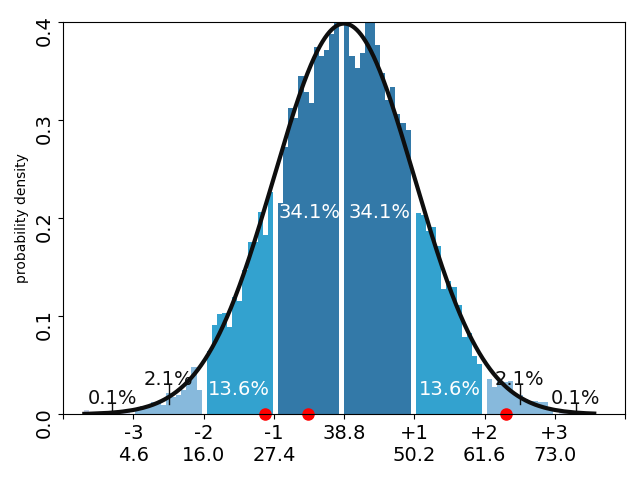
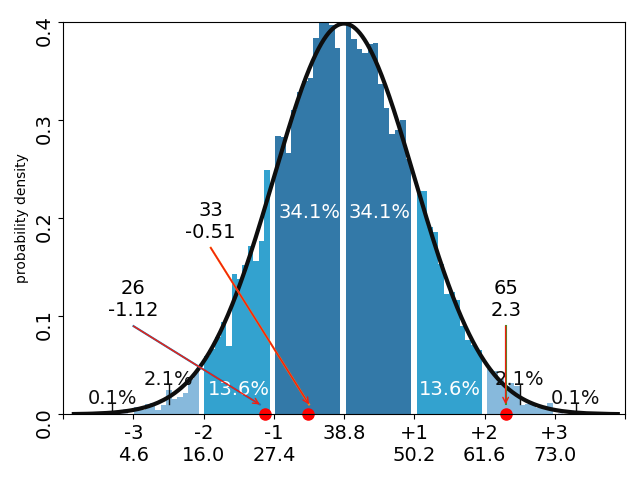
z-scores plot

diff --git a/graphic/plot.py b/graphic/plot.py
@@ -326,7 +326,7 @@ class Plot(DoStats):
                 return '    {0}+'.format(tick_val)
             else:
                 return tick_val
-    def plotStdND(self,x_format_fn=None,func=None):
+    def plotStdND(self,x_format_fn=None,func=None,annotation=None):
         self.x_format_fn=x_format_fn
         l = self.getND(0, 1, size=10000)
         one = self.getProbability(σRange=[1, 0])/2*100
@@ -349,10 +349,7 @@ class Plot(DoStats):
             plt,ax,x,y=self.getXyData(ax=ax,x=np.array(sorted(l)),σ=sigma,μ=mu)
             ax.plot(x, y, '-', c=self.black, linewidth=3)
             callable(func) and func(ax,plt)
-        self.plotND(x=[-4, 4], y=[0, .4], l=[l],  bars=100, yLable='probability density', density=True,
-        format_fn=self.format_fn,
-        callback=callback,
-        annotation=[
+        annos=[
             {'position': (-.5, .2), 'txt': oneσ, 'color': self.white},
             {'position': (.5, .2), 'txt': oneσ, 'color': self.white},
             {'position': (-1.5, .02), 'txt': twoσ, 'color': self.white},
@@ -361,4 +358,10 @@ class Plot(DoStats):
             {'position': (2.5, .03), 'txt': threeσ , 'color': self.black,'hasLine':True},
             {'position': (-3.3, .01), 'txt':fourσ , 'color': self.black,'hasLine':True},
             {'position': (3.3, .01), 'txt':fourσ , 'color': self.black,'hasLine':True}
-        ])
+        ]
+        if annotation is not None:
+            annos+=annotation
+        self.plotND(x=[-4, 4], y=[0, .4], l=[l],  bars=100, yLable='probability density', density=True,
+        format_fn=self.format_fn,
+        callback=callback,
+        annotation=annos)

diff --git a/test/test_fun_nd.py b/test/test_fun_nd.py
@@ -47,14 +47,26 @@ class TDD_TEST_FUN_ND(unittest.TestCase):
                 return ''
             else:
                 return '{1}{0}\n{2}'.format(tick,'+' if tick>0 else '',round(sd*tick+mean,1))
+        firstTrimester=l[:3]
+        l1=self.d.standardizing(firstTrimester,l=l,isPSD=True)
+        roundScore = list(map(lambda item:round(item,2),l1[0]))
+        data=list(zip(firstTrimester,roundScore))
         def func(ax,plt):
-            # ax.tick_params(axis='x', colors='red')
-            firstTrimester=l[:3]
-            l1=self.d.standardizing(firstTrimester,l=l,isPSD=True)
-            line = plt.plot(l1[0],[0,0,0],'o',c='red',markersize=8)[0]
+            line = plt.plot(roundScore,[0,0,0],'o',c='red',markersize=8)[0]
             line.set_clip_on(False)
-            print(l1,'\n',xticks,'\n',l1[0][0])
-        self.d.plotStdND(x_format_fn=x_format_fn,func=func)
+            self.d.drawArrow(ax,( -1.2,-3), [ .01,.09],arrowstyle='->')
+            self.d.drawArrow(ax,( -.5,-1.9), [ .01,.17],arrowstyle='->')
+            self.d.drawArrow(ax,( 2.3,2.3), [ .01,.09],arrowstyle='->')
+            print(l1,'\n',xticks,'\n',roundScore[0])
+        self.d.plotStdND(
+            x_format_fn=x_format_fn,
+            func=func,
+            annotation=[
+                {'position':[-3,.1],'txt':data[0],'color':'black'},
+                {'position':[-1.9,.18],'txt':data[1],'color':'black'},
+                {'position':[2.3,.1],'txt':data[2],'color':'black'},
+            ]
+        )
     def test_save(self):
         self.d.saveAndShow()
 if __name__ == '__main__':
